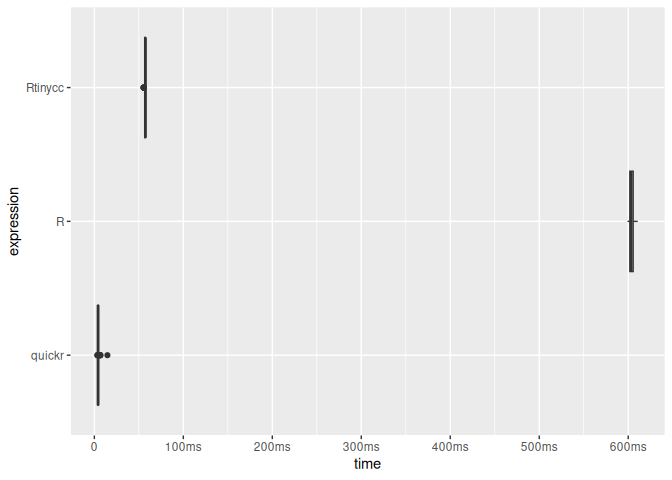
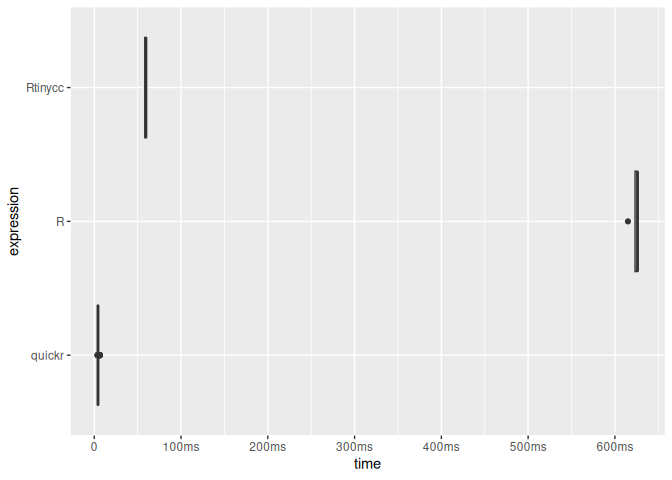
remove some slop

diff --git a/README.md b/README.md
@@ -19,9 +19,9 @@ providing both CLI access and a libtcc-backed in-memory compiler. It
 includes an experimental FFI inspired by [Bun’s
 FFI](https://bun.com/docs/runtime/ffi) for binding C symbols with
 predictable type conversions and pointer utilities. The package runs on
-unix-alikes ( windows may never be supported to subtle UCRT issues, so
-use WSL2) and focuses on embedding TinyCC and enabling JIT-compiled
-bindings directly from R. Combined with
+unix-alikes and windows (pace subtle UCRT issues, so use WSL2) and
+focuses on embedding TinyCC and enabling JIT-compiled bindings directly
+from R. Combined with
 [treesitter.c](https://github.com/sounkou-bioinfo/treesitter.c), which
 provides C header parsers, it can be used to rapidly generate
 declarative bindings.
@@ -176,7 +176,7 @@ tcc_read_cstring(ptr)
 tcc_read_bytes(ptr, 5)
 #> [1] 68 65 6c 6c 6f
 tcc_ptr_addr(ptr, hex = TRUE)
-#> [1] "0x5938dfd50f50"
+#> [1] "0x572a6b7bc030"
 tcc_ptr_is_null(ptr)
 #> [1] FALSE
 tcc_free(ptr)
@@ -207,11 +207,11 @@ through output parameters.
 ptr_ref <- tcc_malloc(.Machine$sizeof.pointer %||% 8L)
 target <- tcc_malloc(8)
 tcc_ptr_set(ptr_ref, target)
-#> <pointer: 0x5938de9e2f80>
+#> <pointer: 0x572a6cada3c0>
 tcc_data_ptr(ptr_ref)
-#> <pointer: 0x5938dfa0cb00>
+#> <pointer: 0x572a6c277ff0>
 tcc_ptr_set(ptr_ref, tcc_null_ptr())
-#> <pointer: 0x5938de9e2f80>
+#> <pointer: 0x572a6cada3c0>
 tcc_free(target)
 #> NULL
 tcc_free(ptr_ref)
@@ -280,8 +280,8 @@ bench::mark(
 #> # A tibble: 2 × 6
 #>   expression      min   median `itr/sec` mem_alloc `gc/sec`
 #>   <bch:expr> <bch:tm> <bch:tm>     <dbl> <bch:byt>    <dbl>
-#> 1 Rtinycc        36ms   38.1ms      22.7   53.98KB     39.7
-#> 2 Rbuiltin      553µs  596.2µs    1538.     9.05KB     26.0
+#> 1 Rtinycc      37.8ms   43.2ms      18.0   53.98KB     32.0
+#> 2 Rbuiltin    556.8µs  600.9µs    1571.     9.05KB     28.0
 
 # For performance-sensitive code, move the loop into C and operate on arrays.
 ffi_vec <- tcc_ffi() |>
@@ -310,8 +310,8 @@ bench::mark(
 #> # A tibble: 2 × 6
 #>   expression        min   median `itr/sec` mem_alloc `gc/sec`
 #>   <bch:expr>   <bch:tm> <bch:tm>     <dbl> <bch:byt>    <dbl>
-#> 1 Rtinycc_vec    20.4µs   21.3µs    43454.    39.1KB     30.4
-#> 2 Rbuiltin_vec   16.5µs   17.3µs    56791.    78.2KB     79.6
+#> 1 Rtinycc_vec    20.8µs   28.5µs    38572.    39.1KB     27.0
+#> 2 Rbuiltin_vec     17µs   17.6µs    55964.    78.2KB     84.1
 ```
 
 ### Variadic calls with `Rprintf`
@@ -396,7 +396,7 @@ ffi <- tcc_ffi() |>
 
 x <- as.integer(1:100) # to avoid ALTREP
 .Internal(inspect(x))
-#> @5938e2396750 13 INTSXP g0c0 [REF(65535)]  1 : 100 (compact)
+#> @572a6ba7bb88 13 INTSXP g0c0 [REF(65535)]  1 : 100 (compact)
 ffi$sum_array(x, length(x))
 #> [1] 5050
 
@@ -412,7 +412,7 @@ y[1]
 #> [1] 11
 
 .Internal(inspect(x))
-#> @5938e2396750 13 INTSXP g0c0 [REF(65535)]  11 : 110 (expanded)
+#> @572a6ba7bb88 13 INTSXP g0c0 [REF(65535)]  11 : 110 (expanded)
 ```
 
 ### Benchmark
@@ -476,9 +476,9 @@ timings
 #> # A tibble: 3 × 6
 #>   expression      min   median `itr/sec` mem_alloc `gc/sec`
 #>   <bch:expr> <bch:tm> <bch:tm>     <dbl> <bch:byt>    <dbl>
-#> 1 R           599.2ms  599.2ms      1.67     847KB    5.01 
-#> 2 quickr        3.6ms    4.2ms    239.       782KB    4.12 
-#> 3 Rtinycc      55.4ms   57.4ms     17.5      782KB    0.500
+#> 1 R          615.07ms 615.07ms      1.63     847KB    4.88 
+#> 2 quickr       3.77ms   4.27ms    235.       782KB    4.10 
+#> 3 Rtinycc     57.13ms  59.54ms     16.9      782KB    0.512
 plot(timings, type = "boxplot") + bench::scale_x_bench_time(base = NULL)
 ```
 
@@ -506,15 +506,15 @@ ffi <- tcc_ffi() |>
 
 p1 <- ffi$struct_point_new()
 ffi$struct_point_set_x(p1, 0.0)
-#> <pointer: 0x5938e2625030>
+#> <pointer: 0x572a704a7f90>
 ffi$struct_point_set_y(p1, 0.0)
-#> <pointer: 0x5938e2625030>
+#> <pointer: 0x572a704a7f90>
 
 p2 <- ffi$struct_point_new()
 ffi$struct_point_set_x(p2, 3.0)
-#> <pointer: 0x5938e0539ab0>
+#> <pointer: 0x572a70b37b20>
 ffi$struct_point_set_y(p2, 4.0)
-#> <pointer: 0x5938e0539ab0>
+#> <pointer: 0x572a70b37b20>
 
 ffi$distance(p1, p2)
 #> [1] 5
@@ -559,9 +559,9 @@ ffi <- tcc_ffi() |>
 
 s <- ffi$struct_flags_new()
 ffi$struct_flags_set_active(s, 1L)
-#> <pointer: 0x5938e59b5cb0>
+#> <pointer: 0x572a6ab5dfd0>
 ffi$struct_flags_set_level(s, 9L)
-#> <pointer: 0x5938e59b5cb0>
+#> <pointer: 0x572a6ab5dfd0>
 ffi$struct_flags_get_active(s)
 #> [1] 1
 ffi$struct_flags_get_level(s)
@@ -853,7 +853,7 @@ ffi <- tcc_ffi() |>
   tcc_compile()
 
 ffi$struct_point_new()
-#> <pointer: 0x5938ee24c680>
+#> <pointer: 0x572a708efed0>
 ffi$enum_status_OK()
 #> [1] 0
 ffi$global_global_counter_get()
@@ -906,11 +906,11 @@ ffi <- tcc_ffi() |>
 o <- ffi$struct_outer_new()
 i <- ffi$struct_inner_new()
 ffi$struct_inner_set_a(i, 42L)
-#> <pointer: 0x5938e0ac81e0>
+#> <pointer: 0x572a7350ca50>
 
 # Write the inner pointer into the outer struct
 ffi$struct_outer_in_addr(o) |> tcc_ptr_set(i)
-#> <pointer: 0x5938eb616e30>
+#> <pointer: 0x572a73bc1760>
 
 # Read it back through indirection
 ffi$struct_outer_in_addr(o) |>
@@ -939,9 +939,9 @@ ffi <- tcc_ffi() |>
 
 b <- ffi$struct_buf_new()
 ffi$struct_buf_set_data_elt(b, 0L, 0xCAL)
-#> <pointer: 0x5938e1d502c0>
+#> <pointer: 0x572a72a8c540>
 ffi$struct_buf_set_data_elt(b, 1L, 0xFEL)
-#> <pointer: 0x5938e1d502c0>
+#> <pointer: 0x572a72a8c540>
 ffi$struct_buf_get_data_elt(b, 0L)
 #> [1] 202
 ffi$struct_buf_get_data_elt(b, 1L)
